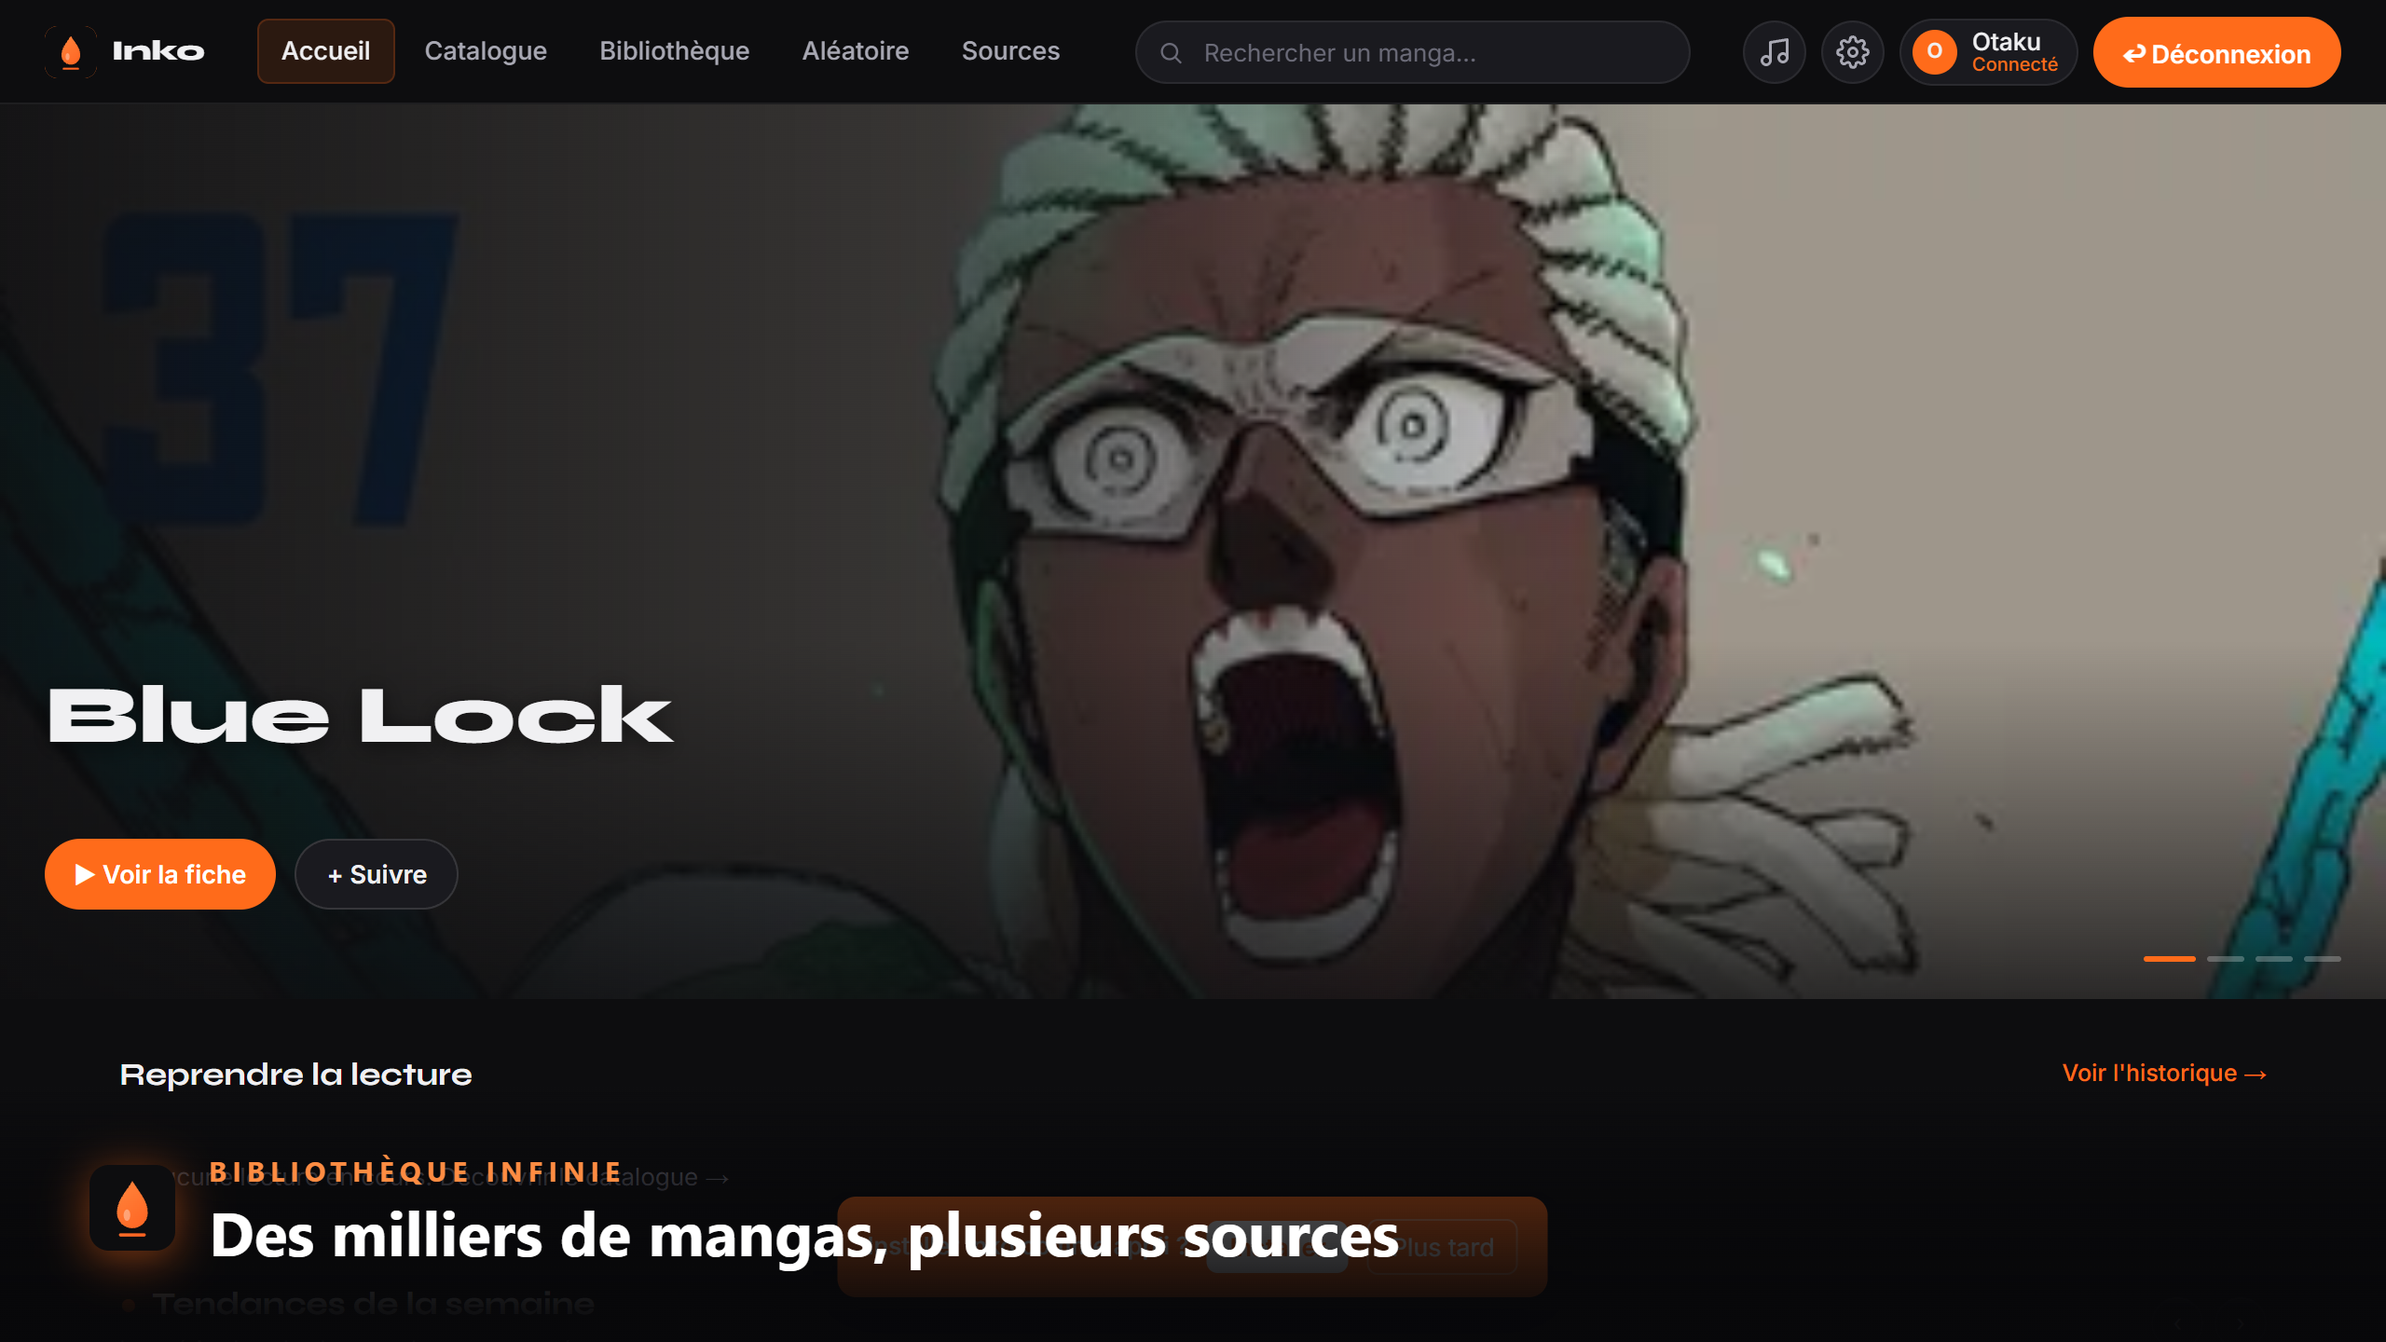
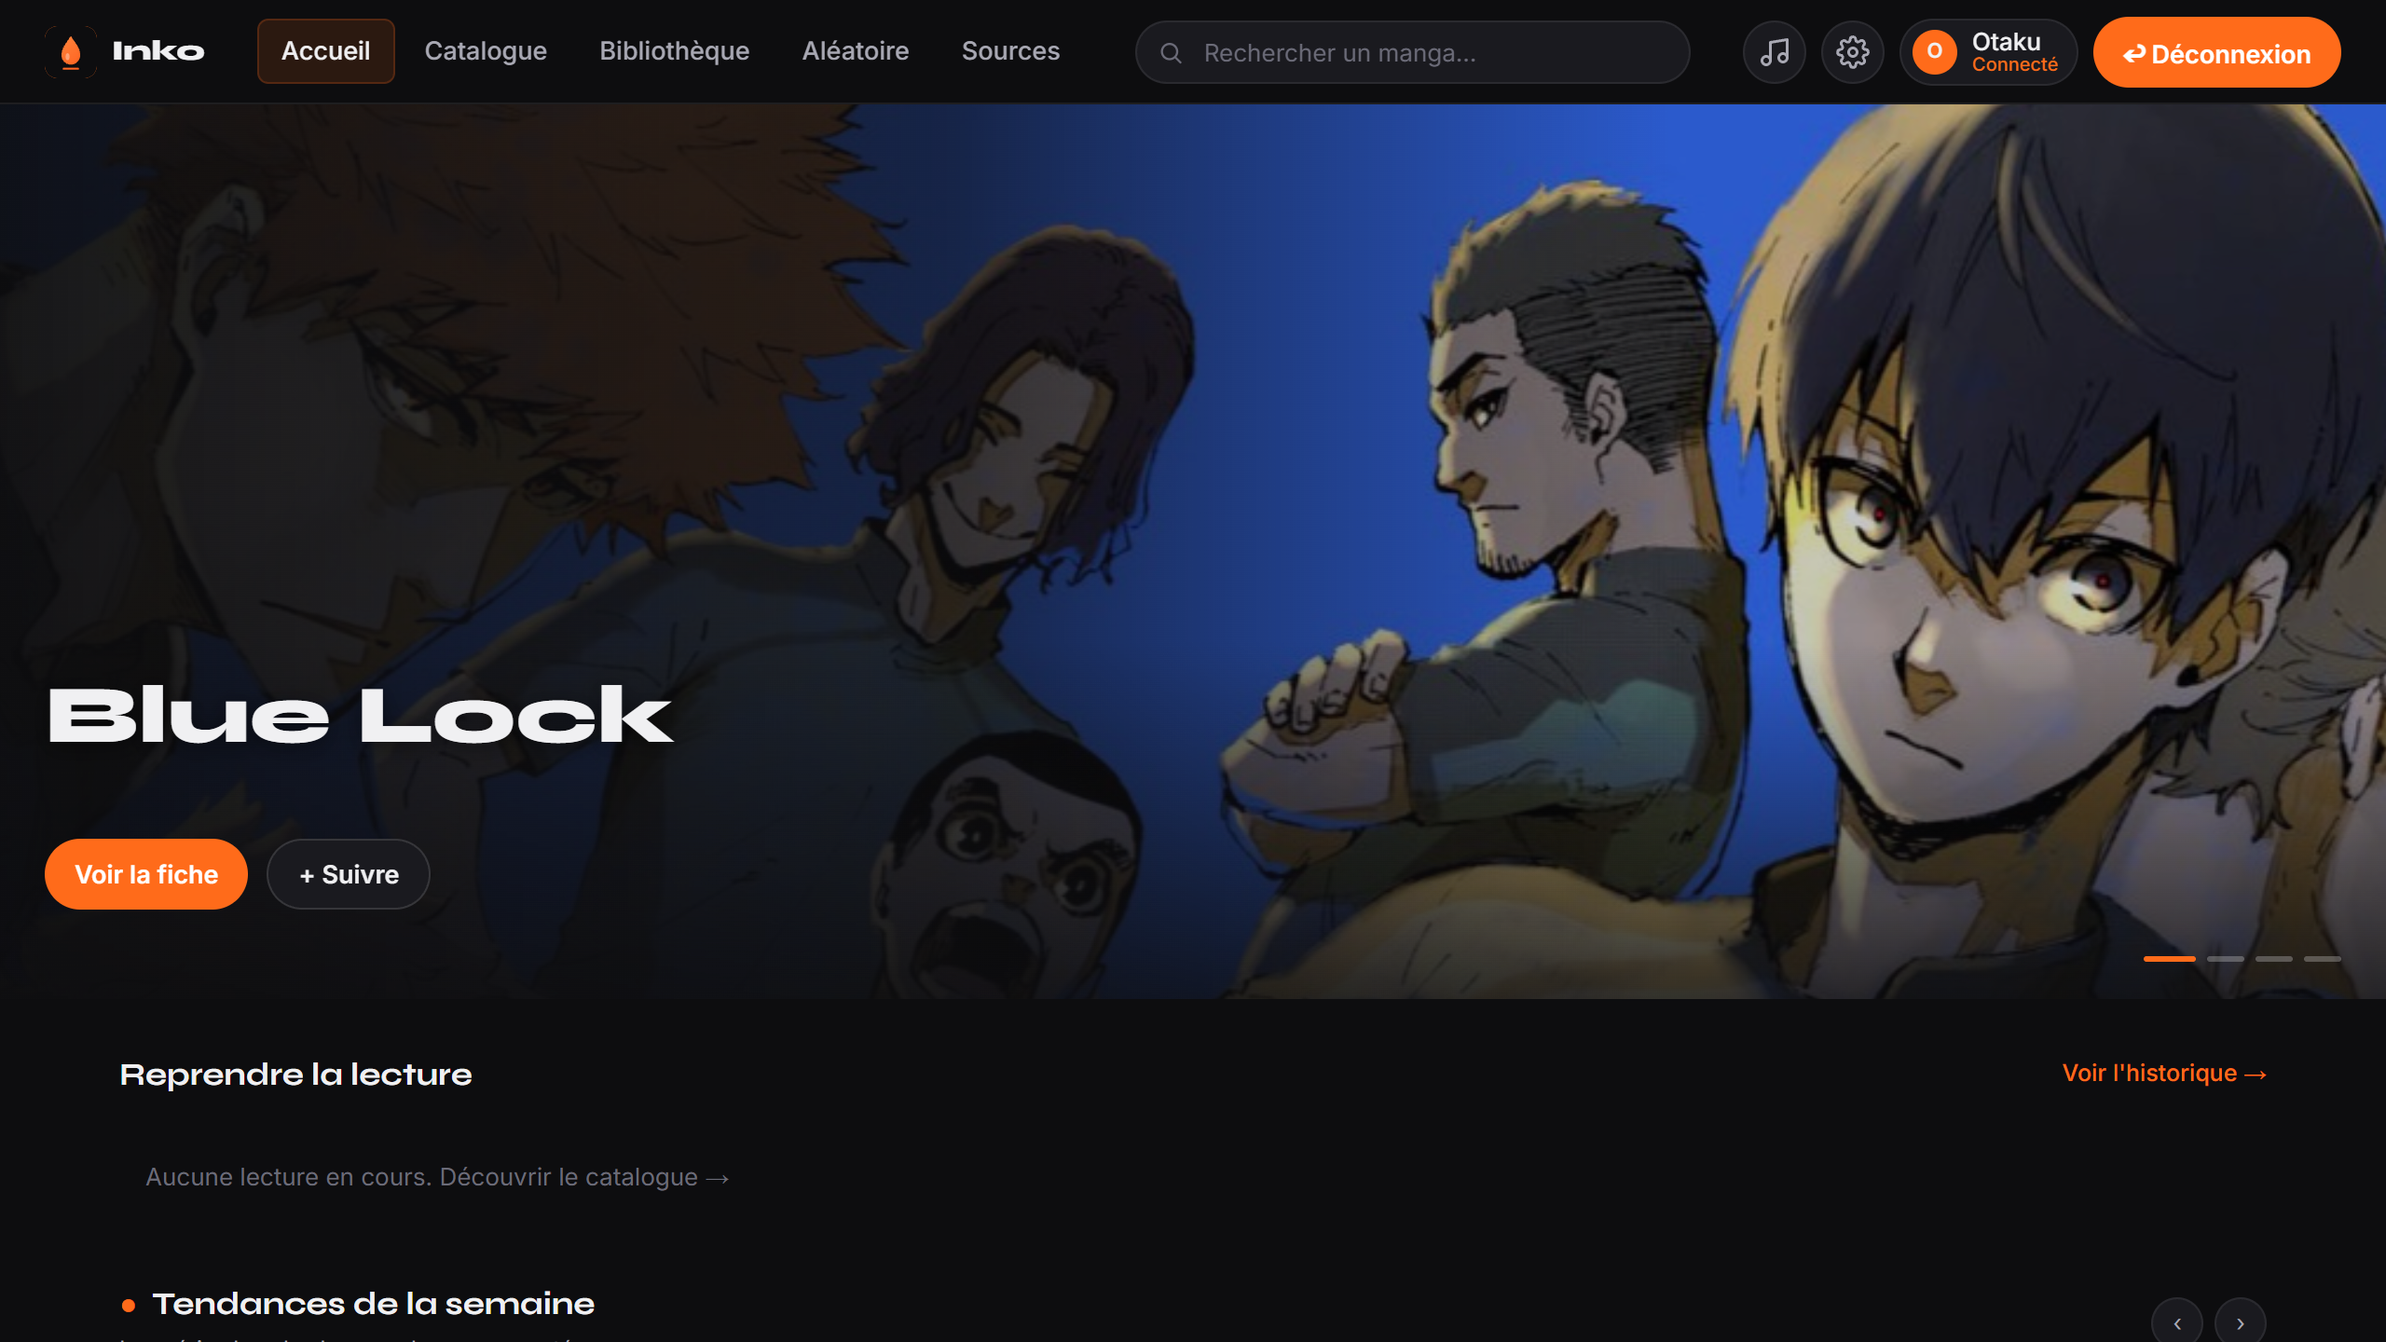
Hero accueil: carrousel anime + illustrations officielles (AniList)
- Carrousel: crossfade entre slides, fleches precedent/suivant, pause au survol
- Banniere: illustration large officielle via AniList (endpoint /artwork avec
  cache) au lieu d'etirer le cover de tome; fallback cover en poster portrait
- Ken Burns leger, contenu en fondu

diff --git a/assets/js/accueil.js b/assets/js/accueil.js
@@ -4,6 +4,8 @@
 
     let heroMangas = [];
     let heroIdx = 0;
+    let heroTimer = null;
+    let heroShow = null;        // référence module vers show() (pour rafraîchir après enrichissement)
     let latestCount = 8;
     let popularCache = null;
     let latestCache = null;
@@ -25,6 +27,15 @@
             renderHero();
             renderTrending(popularCache.slice(0, 10));
             renderReco(popularCache.slice(4, 7));
+            // Illustration officielle (banner AniList) pour chaque série du hero
+            heroMangas.forEach((m, i) => {
+                API.art.get(m.title).then(a => {
+                    if (a && a.banner) {
+                        heroMangas[i] = Object.assign({}, heroMangas[i], { banner: a.banner });
+                        if (heroIdx === i && heroShow) heroShow(i);   // révèle le banner sur le slide visible
+                    }
+                }).catch(() => {});
+            });
         } catch(e) {
             showError('hero', "Impossible de charger les tendances. Le backend est-il lancé ?");
         }
@@ -34,13 +45,13 @@
         const bg      = document.getElementById('heroBg');
         const content = document.getElementById('heroContent');
         const dots    = document.getElementById('heroDots');
-        if (!bg || !content || !heroMangas.length) return;
+        const hero    = document.getElementById('hero');
+        if (!bg || !content || !hero || !heroMangas.length) return;
 
-        function show(idx) {
-            const m = heroMangas[idx];
-            if (!m) return;
-            bg.style.backgroundImage = `url('${m.coverLarge || m.cover || ''}')`;
-            content.innerHTML = `
+        clearInterval(heroTimer);   // évite les intervalles cumulés sur re-render
+
+        function slideHTML(m) {
+            return `
                 <div class="hero-inner">
                     <div class="hero-badges">
                         ${(m.tags || []).slice(0, 3).map(g => `<span class="hero-badge">${MH.esc(g.toUpperCase())}</span>`).join('')}
@@ -53,20 +64,87 @@
                     </div>
                     <p class="hero-desc">${MH.esc((m.description || '').slice(0, 240))}${m.description?.length > 240 ? '…' : ''}</p>
                     <div class="hero-actions">
-                        <a href="serie.html?id=${encodeURIComponent(m.id)}" class="btn btn-primary">▶ Voir la fiche</a>
+                        <a href="serie.html?id=${encodeURIComponent(m.id)}" class="btn btn-primary">Voir la fiche</a>
                         <button class="btn btn-secondary" data-fav="${m.id}">+ Suivre</button>
                     </div>
                 </div>`;
-            dots.innerHTML = heroMangas.map((_, i) =>
-                `<div class="hero-dot ${i === idx ? 'active' : ''}" data-i="${i}"></div>`
-            ).join('');
-            dots.querySelectorAll('.hero-dot').forEach(d =>
-                d.addEventListener('click', () => { heroIdx = +d.dataset.i; show(heroIdx); })
-            );
         }
 
-        show(0);
-        setInterval(() => { heroIdx = (heroIdx + 1) % heroMangas.length; show(heroIdx); }, 6500);
+        // Crossfade de l'arrière-plan via une couche temporaire
+        function crossfadeBg(url) {
+            const layer = document.createElement('div');
+            layer.className = 'hero-bg hero-bg-fade';
+            layer.style.backgroundImage = `url('${url}')`;
+            bg.insertAdjacentElement('afterend', layer);
+            requestAnimationFrame(() => layer.classList.add('show'));
+            setTimeout(() => { bg.style.backgroundImage = `url('${url}')`; layer.remove(); }, 760);
+        }
+
+        // Poster net (cover en portrait, à droite) — créé une fois
+        let poster = document.getElementById('heroPoster');
+        if (!poster) {
+            poster = document.createElement('img');
+            poster.id = 'heroPoster'; poster.className = 'hero-poster'; poster.alt = '';
+            poster.onerror = () => { poster.style.visibility = 'hidden'; };
+            poster.onload  = () => { poster.style.visibility = 'visible'; };
+            hero.appendChild(poster);
+        }
+
+        function show(idx, instant) {
+            const m = heroMangas[idx]; if (!m) return;
+            heroIdx = idx;
+            const banner = m.banner || null;             // illustration large officielle
+            const cover  = m.coverLarge || m.cover || '';
+            const bgUrl  = banner || cover;
+            hero.classList.toggle('has-banner', !!banner);
+            poster.style.display = banner ? 'none' : '';  // banner = pas de poster ; sinon cover nette
+            if (instant) {
+                bg.style.backgroundImage = `url('${bgUrl}')`;
+                if (!banner) poster.src = cover;
+            } else {
+                crossfadeBg(bgUrl);
+                if (!banner) { poster.classList.add('swapping'); setTimeout(() => { poster.src = cover; poster.classList.remove('swapping'); }, 240); }
+            }
+            content.classList.add('hero-fading');
+            setTimeout(() => {
+                content.innerHTML = slideHTML(m);
+                content.classList.remove('hero-fading');
+            }, instant ? 0 : 260);
+            dots.querySelectorAll('.hero-dot').forEach((d, i) => d.classList.toggle('active', i === idx));
+        }
+
+        function go(idx)   { show((idx + heroMangas.length) % heroMangas.length); restart(); }
+        function start()   { heroTimer = setInterval(() => show((heroIdx + 1) % heroMangas.length), 6000); }
+        function restart() { clearInterval(heroTimer); start(); }
+
+        // Points de navigation
+        dots.innerHTML = heroMangas.map((_, i) => `<div class="hero-dot ${i === 0 ? 'active' : ''}" data-i="${i}"></div>`).join('');
+        dots.querySelectorAll('.hero-dot').forEach(d => d.addEventListener('click', () => go(+d.dataset.i)));
+
+        // Flèches précédent / suivant
+        if (!document.getElementById('heroPrev')) {
+            const arrow = (id, side, d) => {
+                const b = document.createElement('button');
+                b.id = id; b.className = 'hero-arrow'; b.style[side] = '14px';
+                b.setAttribute('aria-label', id === 'heroPrev' ? 'Précédent' : 'Suivant');
+                b.innerHTML = `<svg viewBox="0 0 24 24" fill="none" stroke="currentColor" stroke-width="2.4" stroke-linecap="round" stroke-linejoin="round"><path d="${d}"/></svg>`;
+                return b;
+            };
+            const prev = arrow('heroPrev', 'left',  'M15 18l-6-6 6-6');
+            const next = arrow('heroNext', 'right', 'M9 18l6-6-6-6');
+            prev.addEventListener('click', () => go(heroIdx - 1));
+            next.addEventListener('click', () => go(heroIdx + 1));
+            hero.append(prev, next);
+        }
+
+        heroShow = show;
+        show(0, true);
+        start();
+        if (!hero.dataset.heroBound) {
+            hero.dataset.heroBound = '1';
+            hero.addEventListener('mouseenter', () => clearInterval(heroTimer));
+            hero.addEventListener('mouseleave', restart);
+        }
     }
 
     function renderTrending(mangas) {

diff --git a/assets/css/accueil.css b/assets/css/accueil.css
@@ -7,8 +7,41 @@
 }
 .hero-bg {
   position: absolute; inset: 0;
-  background-size: cover; background-position: center top;
-  transition: all 0.6s ease;
+  background-size: cover; background-position: center center;
+  /* Cover floutée + assombrie : sert d'ambiance, le flou cache le recadrage */
+  filter: blur(28px) brightness(.42) saturate(1.1);
+  transform: scale(1.28);
+  transition: opacity 0.75s ease;
+  will-change: transform;
+  animation: heroKenBurns 24s ease-in-out infinite alternate;
+}
+/* Couche de crossfade lors du changement de slide */
+.hero-bg-fade { opacity: 0; animation: none; }
+.hero-bg-fade.show { opacity: 1; }
+@keyframes heroKenBurns {
+  from { transform: scale(1.24) translateX(0); }
+  to   { transform: scale(1.34) translateX(-1.2%); }
+}
+/* Poster net (cover en portrait, proportions respectées) */
+.hero-poster {
+  position: absolute; right: 6%; top: 50%; transform: translateY(-50%);
+  height: 76%; width: auto; aspect-ratio: 2 / 3; object-fit: cover;
+  border-radius: 12px; background: var(--bg3);
+  box-shadow: 0 24px 60px rgba(0,0,0,.62);
+  border: 1px solid rgba(255,255,255,.10);
+  z-index: 3; transition: opacity .4s ease, transform .4s ease;
+}
+.hero-poster.swapping { opacity: 0; transform: translateY(-50%) scale(.96); }
+/* Avec illustration officielle (banner) : image large nette, sans flou ni poster */
+.hero.has-banner .hero-bg {
+  filter: brightness(.78) saturate(1.05);
+  transform: scale(1.06);
+  animation: heroKenBurnsSharp 26s ease-in-out infinite alternate;
+}
+.hero.has-banner .hero-poster { display: none; }
+@keyframes heroKenBurnsSharp {
+  from { transform: scale(1.05); }
+  to   { transform: scale(1.12); }
 }
 .hero-overlay {
   position: absolute; inset: 0;
@@ -24,8 +57,10 @@
   position: absolute; inset: 0;
   display: flex; align-items: flex-end;
   padding: 0 24px 48px;
-  max-width: 780px;
+  max-width: 620px;
+  transition: opacity 0.4s ease, transform 0.4s ease;
 }
+.hero-content.hero-fading { opacity: 0; transform: translateY(14px); }
 .hero-inner { width: 100%; }
 .hero-badges { display: flex; gap: 6px; margin-bottom: 12px; }
 .hero-badge {
@@ -67,6 +102,20 @@
   cursor: pointer;
 }
 .hero-dot.active { background: var(--orange); width: 28px; }
+/* Flèches de navigation du carrousel */
+.hero-arrow {
+  position: absolute; top: 50%; transform: translateY(-50%); z-index: 5;
+  width: 42px; height: 42px; border-radius: 50%;
+  background: rgba(13,13,15,.5); border: 1px solid rgba(255,255,255,.15);
+  color: #fff; display: flex; align-items: center; justify-content: center;
+  cursor: pointer; opacity: 0;
+  transition: opacity .25s ease, background .2s ease, transform .2s ease;
+  backdrop-filter: blur(6px);
+}
+.hero:hover .hero-arrow { opacity: 1; }
+.hero-arrow:hover { background: var(--orange); border-color: var(--orange); }
+.hero-arrow:active { transform: translateY(-50%) scale(.92); }
+.hero-arrow svg { width: 20px; height: 20px; }
 
 /* ── Reprendre lecture ─────────────────────────────────────── */
 .section-resume { padding-top: 28px; }
@@ -285,10 +334,11 @@
 /* ── Mobile landscape (≤ 768px) ─────────────────────────── */
 @media (max-width: 768px) {
   .hero { height: 380px; }
-  .hero-content { padding: 0 16px 32px; }
+  .hero-content { padding: 0 16px 32px; max-width: 100%; }
   .hero-title { font-size: clamp(22px, 5vw, 32px); }
   .hero-desc { display: none; }
   .hero-actions { gap: 8px; }
+  .hero-poster { display: none; }
   .resume-list { grid-template-columns: 1fr; }
   .trending-card { flex: 0 0 calc(33.33% - 8px); }
   .reco-grid { grid-template-columns: repeat(2, 1fr); gap: 10px; }

diff --git a/server/controllers/artwork.controller.js b/server/controllers/artwork.controller.js
@@ -1,0 +1,47 @@
+// ============================================================
+// artwork.controller.js — Illustrations officielles (AniList)
+// ============================================================
+// Récupère le bannerImage (key visual large) d'une œuvre via l'API
+// publique AniList, pour un hero de qualité au lieu d'étirer un cover.
+// Réponses mises en cache 24h (AniList limite à ~90 req/min).
+// ============================================================
+const axios = require('axios');
+
+const cache = new Map();           // titre (lower) -> { data, exp }
+const TTL = 24 * 3600 * 1000;
+const QUERY = `query ($s: String) {
+  Media(search: $s, type: MANGA, sort: SEARCH_MATCH) {
+    title { romaji english }
+    bannerImage
+    coverImage { extraLarge large }
+  }
+}`;
+
+async function artwork(req, res, next) {
+    try {
+        const title = (req.query.title || '').trim();
+        if (!title) return res.json({ banner: null, cover: null, title: null });
+
+        const key = title.toLowerCase();
+        const hit = cache.get(key);
+        if (hit && hit.exp > Date.now()) return res.json(hit.data);
+
+        let data = { banner: null, cover: null, title: null };
+        try {
+            const r = await axios.post('https://graphql.anilist.co',
+                { query: QUERY, variables: { s: title } },
+                { headers: { 'Content-Type': 'application/json', 'Accept': 'application/json' }, timeout: 12000 });
+            const m = r.data?.data?.Media;
+            if (m) data = {
+                banner: m.bannerImage || null,
+                cover:  m.coverImage?.extraLarge || m.coverImage?.large || null,
+                title:  m.title?.romaji || m.title?.english || null,
+            };
+        } catch (e) { /* AniList indispo : on renvoie null, le front retombe sur le cover */ }
+
+        cache.set(key, { data, exp: Date.now() + TTL });
+        res.json(data);
+    } catch (e) { next(e); }
+}
+
+module.exports = { artwork };

diff --git a/server/routes/index.js b/server/routes/index.js
@@ -5,6 +5,7 @@ const Auth    = require('../controllers/auth.controller');
 const Manga   = require('../controllers/manga.controller');
 const User    = require('../controllers/user.controller');
 const Spotify = require('../controllers/spotify.controller');
+const Artwork = require('../controllers/artwork.controller');
 
 // ── Healthcheck ─────────────────────────────────
 router.get('/health', (_req, res) => res.json({ ok: true, time: Date.now() }));
@@ -22,6 +23,9 @@ router.post('/auth/delete',   auth.authRequired, Auth.deleteAccount);
 
 // ── Sources (extensions installées) ───────────────
 router.get('/sources',              Manga.listSources);
+
+// ── Artwork officiel (AniList) pour le hero ───────
+router.get('/artwork',              Artwork.artwork);
 
 // ── Mangas (relais vers source active, ?source=<id> pour cibler) ──
 router.get('/mangas/search',        Manga.search);

diff --git a/assets/js/api.js b/assets/js/api.js
@@ -201,6 +201,11 @@
             remove: (mangaId)          => del('/ratings/' + encodeURIComponent(mangaId)),
         },
 
+        // ── Artwork officiel (AniList) ──
+        art: {
+            get: (title) => get('/artwork?title=' + encodeURIComponent(title || '')),
+        },
+
         // ── Spotify (linking de compte OAuth) ──
         spotify: {
             // URL d'autorisation (navigation top-level requise : window.open / location)
